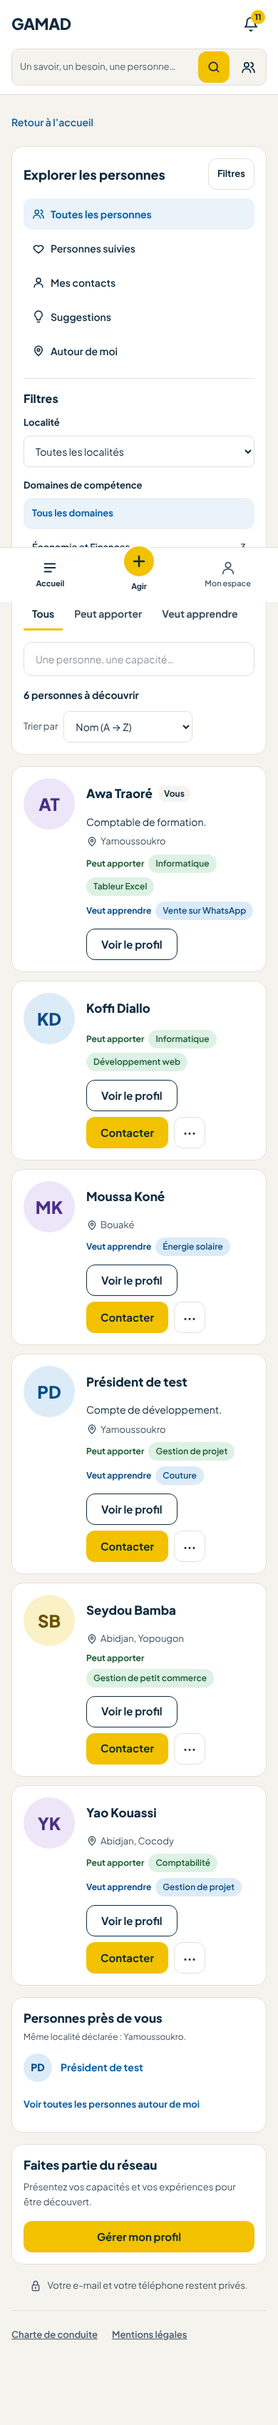
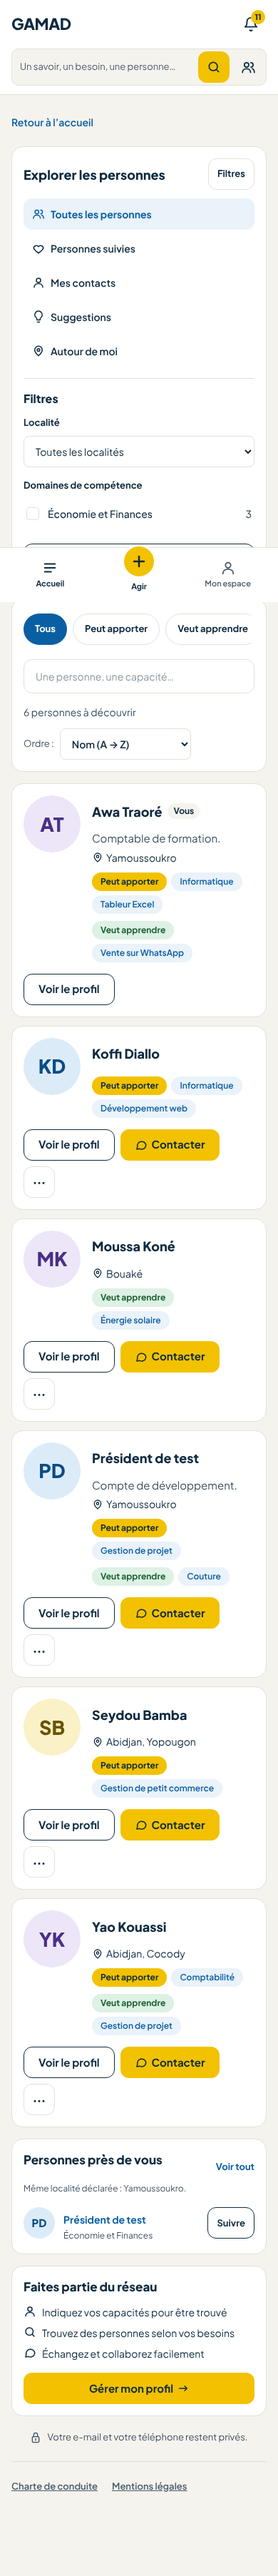
Personnes : rapprochement de la maquette (onglets en pastilles, cartes à actions latérales, filtres à cases, blocs de droite avec Suivre)
Claude-Session: https://claude.ai/code/session_01HadbpwLj9VLL4L1zDggZLr

diff --git a/resources/views/livewire/carrefour-personnes.blade.php b/resources/views/livewire/carrefour-personnes.blade.php
@@ -9,8 +9,8 @@
     $citiesWithCount = $cities->filter(fn ($c) => ($cityCounts[$c->id] ?? 0) > 0 || $c->id === $cityId);
 @endphp
 <div class="person-directory min-w-0" x-data="{ filters: false }">
-    @if (\App\Support\Experience::initial())<a href="{{ auth()->check() ? route('fil') : route('home') }}" class="mb-3 inline-flex min-h-11 items-center gap-2 text-[14px] font-semibold">Retour à l’accueil</a>@endif
-    <div class="grid min-w-0 items-start gap-4 lg:grid-cols-[220px_minmax(0,1fr)] xl:grid-cols-[230px_minmax(0,1fr)_260px]">
+    @if (\App\Support\Experience::initial())<a href="{{ auth()->check() ? route('fil') : route('home') }}" class="mb-3 inline-flex min-h-11 items-center gap-2 text-[14px] font-semibold lg:hidden">Retour à l’accueil</a>@endif
+    <div class="grid min-w-0 items-start gap-4 lg:grid-cols-[240px_minmax(0,1fr)] xl:grid-cols-[250px_minmax(0,1fr)_300px]">
         <aside aria-label="Navigation et filtres des personnes" class="min-w-0 rounded-card border border-line bg-card p-4">
             <div class="flex items-center justify-between gap-2">
                 <h2 class="text-[18px] font-extrabold">Explorer les personnes</h2>
@@ -29,24 +29,27 @@
                     <option value="">Toutes les localités</option>
                     @foreach ($citiesWithCount as $ville)<option value="{{ $ville->id }}">{{ $ville->label() }} ({{ $cityCounts[$ville->id] ?? 0 }})</option>@endforeach
                 </select>
-                <fieldset class="mt-4">
+                <fieldset class="mt-4" x-data="{ more: {{ $domainId !== '' ? 'true' : 'false' }} }">
                     <legend class="mb-2 text-[13px] font-bold">Domaines de compétence</legend>
-                    <div class="space-y-1">
-                        <button type="button" wire:click="$set('domain', '')" aria-pressed="{{ $domainId === '' ? 'true' : 'false' }}" class="flex min-h-11 w-full items-center justify-between gap-2 rounded-button px-3 text-left text-[13px] {{ $domainId === '' ? 'bg-soft-blue font-bold text-link' : 'font-semibold' }}">Tous les domaines</button>
+                    <div class="space-y-0.5">
                         @foreach ($domainsWithCount as $domaine)
-                            <button type="button" wire:click="$set('domain', '{{ $domaine->id }}')" aria-pressed="{{ $domainId === $domaine->id ? 'true' : 'false' }}" class="flex min-h-11 w-full items-center justify-between gap-2 rounded-button px-3 text-left text-[13px] {{ $domainId === $domaine->id ? 'bg-soft-blue font-bold text-link' : 'font-semibold' }}"><span class="min-w-0 break-words">{{ $domaine->name }}</span><span class="shrink-0 text-muted">{{ $domainCounts[$domaine->id] ?? 0 }}</span></button>
+                            <button type="button" @if ($loop->index >= 5) x-show="more" x-cloak @endif wire:click="$set('domain', '{{ $domainId === $domaine->id ? '' : $domaine->id }}')" aria-pressed="{{ $domainId === $domaine->id ? 'true' : 'false' }}" class="flex min-h-11 w-full items-center gap-3 rounded-button px-1 text-left text-[14px] font-medium">
+                                <span class="flex h-[18px] w-[18px] shrink-0 items-center justify-center rounded-[4px] border {{ $domainId === $domaine->id ? 'border-ink bg-ink text-white' : 'border-line' }}">@if ($domainId === $domaine->id)<x-icon name="check" :size="12"/>@endif</span>
+                                <span class="min-w-0 flex-1 break-words">{{ $domaine->name }}</span><span class="shrink-0 text-muted">{{ $domainCounts[$domaine->id] ?? 0 }}</span>
+                            </button>
                         @endforeach
                     </div>
+                    @if ($domainsWithCount->count() > 5)<button type="button" x-on:click="more = ! more" class="mt-1 inline-flex min-h-11 items-center text-[14px] font-bold text-link"><span x-text="more ? 'Voir moins' : 'Voir plus'">Voir plus</span></button>@endif
                 </fieldset>
-                @if ($hasFilters)<button type="button" wire:click="clearFilters" class="mt-4 min-h-11 w-full rounded-button border border-line px-3 text-[13px] font-bold">Réinitialiser</button>@endif
+                <button type="button" wire:click="clearFilters" class="mt-5 inline-flex min-h-11 w-full items-center justify-center gap-2 rounded-button border border-ink px-3 text-[14px] font-bold">Réinitialiser les filtres</button>
             </div>
         </aside>
         <main class="min-w-0 space-y-4">
             <h1 class="sr-only">Personnes — Trouvez qui peut vous aider</h1>
             <div class="rounded-card border border-line bg-card p-4">
-                <div role="tablist" aria-label="Type de capacité" class="-mx-1 flex gap-1 overflow-x-auto px-1">
+                <div role="tablist" aria-label="Type de capacité" class="-mx-1 flex max-w-full gap-2 overflow-x-auto px-1 py-1">
                     @foreach ($labels as $slug => $label)
-                        <button type="button" role="tab" aria-selected="{{ $mode === $slug ? 'true' : 'false' }}" wire:click="setMode('{{ $slug }}')" class="min-h-11 shrink-0 border-b-[3px] px-3 text-[14px] font-bold {{ $mode === $slug ? 'border-accent text-ink' : 'border-transparent text-muted' }}">{{ $label }}</button>
+                        <button type="button" role="tab" aria-selected="{{ $mode === $slug ? 'true' : 'false' }}" wire:click="setMode('{{ $slug }}')" class="min-h-11 shrink-0 rounded-full px-4 text-[13px] font-bold {{ $mode === $slug ? 'bg-link text-white' : 'border border-line bg-card' }}">{{ $label }}</button>
                     @endforeach
                 </div>
                 <div class="mt-4 xl:hidden">
@@ -67,9 +70,9 @@
                     </div>
                 @endif
                 <div class="mt-4 flex flex-wrap items-center justify-between gap-3">
-                    <span role="status" aria-live="polite" class="text-[14px] font-bold">{{ $summary }}</span>
-                    <label class="flex items-center gap-2 text-[13px] text-muted">Trier par
-                        <select wire:model.live="sort" class="zumra-filter !w-auto">
+                    <p role="status" aria-live="polite" class="text-[14px] text-muted">{{ $summary }}</p>
+                    <label class="flex items-center gap-2 text-[13px] text-muted">Ordre :
+                        <select wire:model.live="sort" class="zumra-filter !w-auto font-semibold">
                             @foreach ($sorts as $slug => $label)<option value="{{ $slug }}">{{ $label }}</option>@endforeach
                         </select>
                     </label>
@@ -111,43 +114,44 @@
         <aside aria-label="Découvrir le réseau" class="min-w-0 space-y-4 lg:col-start-2 xl:col-start-3">
             <section class="hidden rounded-card border border-line bg-card p-4 xl:block">
                 <h2 class="text-[17px] font-extrabold">Recherche rapide</h2>
-                <label for="recherche-rapide" class="mt-3 block text-[13px] text-muted">Un nom ou une capacité</label>
-                <input id="recherche-rapide" type="search" wire:model.live.debounce.300ms="query" maxlength="100" autocomplete="off" placeholder="Une personne, une capacité…" class="mt-1 min-h-11 w-full min-w-0 rounded-button border border-line bg-card px-3 text-[14px] outline-none focus:border-link">
+                <form wire:submit="$refresh" class="mt-3 space-y-3">
+                    <label for="recherche-rapide" class="sr-only">Un nom ou une capacité</label>
+                    <div class="flex items-center gap-2 rounded-button border border-line bg-card px-3 focus-within:border-link"><x-icon name="search" :size="18"/><input id="recherche-rapide" type="search" wire:model.live.debounce.300ms="query" maxlength="100" autocomplete="off" placeholder="Nom, compétence…" class="min-h-11 min-w-0 flex-1 border-0 bg-transparent px-0 text-[14px] outline-none focus:ring-0"></div>
+                    <x-button type="submit" variant="accent" class="w-full">Rechercher</x-button>
+                </form>
             </section>
-            @if ($suggestions->isNotEmpty())
-                <section aria-labelledby="suggestions-titre" class="rounded-card border border-line bg-card p-4">
-                    <h2 id="suggestions-titre" class="text-[17px] font-extrabold">Suggestions pour vous</h2>
-                    <p class="mt-1 text-[12px] text-muted">D’après vos capacités et envies d’apprendre, par ordre alphabétique.</p>
+            @foreach ([['suggestions', 'Suggestions pour vous', $suggestions, 'sugg', 'Voir plus de suggestions →', 'suggestions'], ['nearby', 'Personnes près de vous', $nearby, 'proche', 'Voir tout', 'autour']] as [$id, $title, $items, $prefix, $more, $target])
+                @continue($items->isEmpty())
+                <section aria-labelledby="{{ $id }}-titre" class="rounded-card border border-line bg-card p-4">
+                    <div class="flex items-start justify-between gap-2">
+                        <h2 id="{{ $id }}-titre" class="text-[17px] font-extrabold">{{ $title }}</h2>
+                        @if ($id === 'nearby')<button type="button" wire:click="setList('{{ $target }}')" class="inline-flex min-h-11 items-center text-[13px] font-bold text-link">{{ $more }}</button>@endif
+                    </div>
+                    <p class="text-[12px] text-muted">{{ $id === 'nearby' ? 'Même localité déclarée : '.$viewerProfile->city->label().'.' : 'D’après vos capacités et envies d’apprendre, par ordre alphabétique.' }}</p>
                     <ul class="mt-3 space-y-3">
-                        @foreach ($suggestions as $suggested)
-                            <li class="flex min-w-0 items-start gap-3" wire:key="suggestion-{{ $suggested->id }}">
-                                <x-avatar :profile="$suggested" :size="40" />
-                                <div class="min-w-0"><a href="{{ route('personnes.show', $suggested->public_id) }}" class="inline-flex min-h-11 items-center break-words text-[14px] font-bold">{{ $suggested->user->name }}</a><p class="break-words text-[12px] text-muted">{{ $suggested->reason }}</p></div>
+                        @foreach ($items as $item)
+                            @php($isFollowed = in_array($item->user_id, $followedIds, true))
+                            <li class="flex min-w-0 items-center gap-3" wire:key="{{ $prefix }}-{{ $item->id }}">
+                                <x-avatar :profile="$item" :size="44" />
+                                <div class="min-w-0 flex-1">
+                                    <a href="{{ route('personnes.show', $item->public_id) }}" class="inline-flex min-h-11 items-center break-words text-[14px] font-bold">{{ $item->user->name }}</a>
+                                    <p class="-mt-2 break-words text-[12px] text-muted">{{ $id === 'suggestions' ? $item->reason : ($item->headline ?: $item->domains->pluck('name')->take(2)->join(' · ')) }}</p>
+                                </div>
+                                <button type="button" wire:click="follow('{{ $item->id }}', {{ $isFollowed ? 'false' : 'true' }})" class="min-h-11 shrink-0 rounded-button border border-ink px-3 text-[13px] font-bold">{{ $isFollowed ? 'Suivie' : 'Suivre' }}</button>
                             </li>
                         @endforeach
                     </ul>
-                    <button type="button" wire:click="setList('suggestions')" class="mt-2 inline-flex min-h-11 items-center text-[13px] font-bold text-link">Voir toutes les suggestions</button>
+                    @if ($id === 'suggestions')<button type="button" wire:click="setList('suggestions')" class="mt-2 inline-flex min-h-11 items-center text-[14px] font-bold text-link">{{ $more }}</button>@endif
                 </section>
-            @endif
-            @if ($nearby->isNotEmpty())
-                <section aria-labelledby="proches-titre" class="rounded-card border border-line bg-card p-4">
-                    <h2 id="proches-titre" class="text-[17px] font-extrabold">Personnes près de vous</h2>
-                    <p class="mt-1 text-[12px] text-muted">Même localité déclarée : {{ $viewerProfile->city->label() }}.</p>
-                    <ul class="mt-3 space-y-3">
-                        @foreach ($nearby as $close)
-                            <li class="flex min-w-0 items-center gap-3" wire:key="proche-{{ $close->id }}">
-                                <x-avatar :profile="$close" :size="40" />
-                                <a href="{{ route('personnes.show', $close->public_id) }}" class="inline-flex min-h-11 min-w-0 items-center break-words text-[14px] font-bold">{{ $close->user->name }}</a>
-                            </li>
-                        @endforeach
-                    </ul>
-                    <button type="button" wire:click="setList('autour')" class="mt-2 inline-flex min-h-11 items-center text-[13px] font-bold text-link">Voir toutes les personnes autour de moi</button>
-                </section>
-            @endif
+            @endforeach
             <section class="rounded-card border border-line bg-card p-4">
                 <h2 class="text-[17px] font-extrabold">Faites partie du réseau</h2>
-                <p class="mt-2 text-[13px] leading-relaxed text-muted">Présentez vos capacités et vos expériences pour être découvert.</p>
-                <x-button :href="$guest ? route('register') : route('espace.profil')" variant="accent" class="mt-4 w-full">{{ $guest ? 'Créer un compte' : ($viewerProfile?->hasSkills() ? 'Gérer mon profil' : 'Compléter mon profil') }}</x-button>
+                <ul class="mt-3 space-y-2 text-[14px]">
+                    <li class="flex items-start gap-2"><x-icon name="user" :size="18"/> Indiquez vos capacités pour être trouvé</li>
+                    <li class="flex items-start gap-2"><x-icon name="search" :size="18"/> Trouvez des personnes selon vos besoins</li>
+                    <li class="flex items-start gap-2"><x-icon name="chat" :size="18"/> Échangez et collaborez facilement</li>
+                </ul>
+                <x-button :href="$guest ? route('register') : route('espace.profil')" variant="accent" class="mt-4 w-full">{{ $guest ? 'Créer un compte' : ($viewerProfile?->hasSkills() ? 'Gérer mon profil' : 'Compléter mon profil') }} <x-icon name="arrow-right" :size="16" class="ml-1.5"/></x-button>
             </section>
         </aside>
     </div>

diff --git a/resources/views/components/person-discovery-card.blade.php b/resources/views/components/person-discovery-card.blade.php
@@ -4,42 +4,44 @@
     $presentation = $profile->headline ?: \Illuminate\Support\Str::limit((string) $profile->bio, 120);
     $contactUrl = $conversation ? route('conversations.show', $conversation) : route('personnes.show', $profile->public_id).'#contact';
 @endphp
-<article {{ $attributes->class(['person-discovery-card min-w-0 rounded-card border border-line bg-card p-4']) }}>
-    <div class="flex min-w-0 gap-4">
-        <a href="{{ route('personnes.show', $profile->public_id) }}" class="shrink-0" aria-label="Voir le profil de {{ $profile->user->name }}"><x-avatar :profile="$profile" :size="72" /></a>
-        <div class="min-w-0 flex-1 space-y-2">
-            <div class="flex min-w-0 flex-wrap items-center gap-x-2 gap-y-1">
-                <a href="{{ route('personnes.show', $profile->public_id) }}" class="person-name break-words text-[17px] font-extrabold">{{ $profile->user->name }}</a>
-                @if ($self)<span class="rounded-chip bg-ground px-2 py-0.5 text-[12px] font-bold">Vous</span>@endif
-                @if ($followed)<span class="rounded-chip bg-soft-blue px-2 py-0.5 text-[12px] font-bold text-link">Suivie</span>@endif
-                @if ($contact)<span class="rounded-chip bg-type-knowledge-bg px-2 py-0.5 text-[12px] font-bold text-type-knowledge-fg">Contact</span>@endif
-            </div>
-            @if ($presentation !== '')<p class="break-words text-[14px] leading-snug">{{ $presentation }}</p>@endif
-            @if ($profile->city)<p class="flex items-center gap-1 text-[13px] text-muted"><x-icon name="pin" :size="16" /> {{ $profile->city->label() }}</p>@endif
-            @foreach ([['skills' => $profile->offeredSkills, 'label' => 'Peut apporter', 'kind' => 'offered'], ['skills' => $profile->wantedSkills, 'label' => 'Veut apprendre', 'kind' => 'wanted']] as $group)
-                @if ($group['skills']->isNotEmpty())
-                    <div class="flex min-w-0 flex-wrap items-center gap-1.5">
-                        <span class="text-[12px] font-bold {{ $group['kind'] === 'offered' ? 'text-type-knowledge-fg' : 'text-type-learning-fg' }}">{{ $group['label'] }}</span>
-                        @foreach ($group['skills']->take(3) as $skill)
-                            <span class="max-w-full rounded-chip px-2.5 py-1 text-[12px] font-semibold [overflow-wrap:anywhere] {{ $group['kind'] === 'offered' ? 'bg-type-knowledge-bg text-type-knowledge-fg' : 'bg-type-learning-bg text-type-learning-fg' }}">{{ $skill->name }}</span>
-                        @endforeach
-                        @if ($group['skills']->count() > 3)<span class="text-[12px] font-semibold text-muted">+{{ $group['skills']->count() - 3 }}</span>@endif
-                    </div>
-                @endif
-            @endforeach
-            <div class="flex flex-wrap items-center gap-2 pt-1">
-                <x-button :href="route('personnes.show', $profile->public_id)" variant="secondary">Voir le profil</x-button>
-                @unless ($self)<x-button :href="$contactUrl" variant="accent">Contacter</x-button>@endunless
-                @if ($canAct && ! $self)
-                    <div x-data="{ open: false }" class="relative" x-on:click.outside="open = false" x-on:keydown.escape.window="open = false">
-                        <button type="button" x-on:click="open = ! open" x-bind:aria-expanded="open" aria-haspopup="menu" aria-label="Autres actions pour {{ $profile->user->name }}" class="inline-flex min-h-11 min-w-11 items-center justify-center rounded-button border border-line text-[18px] font-extrabold">⋯</button>
-                        <div x-show="open" x-cloak role="menu" class="absolute right-0 z-20 mt-1 w-56 rounded-card border border-line bg-card p-1 shadow-lg">
-                            <button type="button" role="menuitem" wire:click="follow('{{ $profile->id }}', {{ $followed ? 'false' : 'true' }})" x-on:click="open = false" class="flex min-h-11 w-full items-center px-3 text-left text-[14px] font-semibold">{{ $followed ? 'Ne plus suivre' : 'Suivre cette personne' }}</button>
-                            <a role="menuitem" href="{{ route('personnes.signaler', $profile->public_id) }}" class="flex min-h-11 items-center px-3 text-[14px] font-semibold">Signaler ce profil</a>
+<article {{ $attributes->class(['person-discovery-card relative min-w-0 rounded-card border border-line bg-card p-4']) }}>
+    <div class="flex min-w-0 flex-col gap-4 sm:flex-row">
+        <div class="flex min-w-0 flex-1 gap-4">
+            <a href="{{ route('personnes.show', $profile->public_id) }}" class="shrink-0" aria-label="Voir le profil de {{ $profile->user->name }}"><x-avatar :profile="$profile" :size="80" /></a>
+            <div class="min-w-0 flex-1 space-y-1.5">
+                <div class="flex min-w-0 flex-wrap items-center gap-x-2 gap-y-1">
+                    <a href="{{ route('personnes.show', $profile->public_id) }}" class="person-name break-words text-[18px] font-extrabold">{{ $profile->user->name }}</a>
+                    @if ($self)<span class="rounded-chip bg-ground px-2 py-0.5 text-[12px] font-bold">Vous</span>@endif
+                    @if ($followed)<span class="rounded-chip bg-soft-blue px-2 py-0.5 text-[12px] font-bold text-link">Suivie</span>@endif
+                    @if ($contact)<span class="rounded-chip bg-type-knowledge-bg px-2 py-0.5 text-[12px] font-bold text-type-knowledge-fg">Contact</span>@endif
+                </div>
+                @if ($presentation !== '')<p class="break-words text-[15px] leading-snug text-muted">{{ $presentation }}</p>@endif
+                @if ($profile->city)<p class="flex items-center gap-1 text-[14px]"><x-icon name="pin" :size="16" /> {{ $profile->city->label() }}</p>@endif
+                @foreach ([['skills' => $profile->offeredSkills, 'label' => 'Peut apporter', 'kind' => 'offered'], ['skills' => $profile->wantedSkills, 'label' => 'Veut apprendre', 'kind' => 'wanted']] as $group)
+                    @if ($group['skills']->isNotEmpty())
+                        <div class="flex min-w-0 flex-wrap items-center gap-1.5 pt-1">
+                            <span class="rounded-chip px-3 py-1 text-[12px] font-bold {{ $group['kind'] === 'offered' ? 'bg-accent text-ink' : 'bg-type-knowledge-bg text-type-knowledge-fg' }}">{{ $group['label'] }}</span>
+                            @foreach ($group['skills']->take(3) as $skill)
+                                <span class="max-w-full rounded-chip bg-soft-blue px-3 py-1 text-[12px] font-semibold text-link [overflow-wrap:anywhere]">{{ $skill->name }}</span>
+                            @endforeach
+                            @if ($group['skills']->count() > 3)<span class="rounded-chip bg-ground px-2.5 py-1 text-[12px] font-semibold text-muted">+{{ $group['skills']->count() - 3 }}</span>@endif
                         </div>
-                    </div>
-                @endif
+                    @endif
+                @endforeach
             </div>
+        </div>
+        <div class="flex shrink-0 flex-wrap items-start gap-2 sm:mt-8 sm:w-[150px] sm:flex-col sm:items-stretch">
+            <x-button :href="route('personnes.show', $profile->public_id)" variant="secondary">Voir le profil</x-button>
+            @unless ($self)<x-button :href="$contactUrl" variant="accent"><x-icon name="chat" :size="18" class="mr-1.5" />Contacter</x-button>@endunless
+            @if ($canAct && ! $self)
+                <div x-data="{ open: false }" class="relative sm:absolute sm:right-2 sm:top-2" x-on:click.outside="open = false" x-on:keydown.escape.window="open = false">
+                    <button type="button" x-on:click="open = ! open" x-bind:aria-expanded="open" aria-haspopup="menu" aria-label="Autres actions pour {{ $profile->user->name }}" class="inline-flex min-h-11 min-w-11 items-center justify-center rounded-button border border-line text-[18px] font-extrabold sm:border-0">⋯</button>
+                    <div x-show="open" x-cloak role="menu" class="absolute right-0 z-20 mt-1 w-56 rounded-card border border-line bg-card p-1 shadow-lg">
+                        <button type="button" role="menuitem" wire:click="follow('{{ $profile->id }}', {{ $followed ? 'false' : 'true' }})" x-on:click="open = false" class="flex min-h-11 w-full items-center px-3 text-left text-[14px] font-semibold">{{ $followed ? 'Ne plus suivre' : 'Suivre cette personne' }}</button>
+                        <a role="menuitem" href="{{ route('personnes.signaler', $profile->public_id) }}" class="flex min-h-11 items-center px-3 text-[14px] font-semibold">Signaler ce profil</a>
+                    </div>
+                </div>
+            @endif
         </div>
     </div>
 </article>

diff --git a/app/Livewire/CarrefourPersonnes.php b/app/Livewire/CarrefourPersonnes.php
@@ -264,7 +264,7 @@ class CarrefourPersonnes extends Component
         $offered = $mine->offeredSkills->pluck('name', 'id');
 
         return $query->orderBy(User::query()->select('name_search')->whereColumn('users.id', 'profiles.user_id'))
-            ->with(['user', 'offeredSkills', 'wantedSkills'])->limit(3)->get()
+            ->with(['user', 'city', 'domains', 'offeredSkills', 'wantedSkills'])->limit(3)->get()
             ->map(function (Profile $profile) use ($wanted, $offered) {
                 $brings = $profile->offeredSkills->whereIn('id', $wanted->keys())->pluck('name')->first();
                 $learns = $profile->wantedSkills->whereIn('id', $offered->keys())->pluck('name')->first();
@@ -280,6 +280,6 @@ class CarrefourPersonnes extends Component
         return Profile::query()->visibleTo($viewer)->where('profiles.user_id', '<>', $viewer->id)->where('profiles.city_id', $mine->city_id)
             ->where(fn (Builder $q) => $q->whereHas('offeredSkills')->orWhereHas('wantedSkills'))
             ->orderBy(User::query()->select('name_search')->whereColumn('users.id', 'profiles.user_id'))
-            ->with(['user', 'city', 'offeredSkills'])->limit(3)->get();
+            ->with(['user', 'city', 'domains'])->limit(3)->get();
     }
 }

diff --git a/tests/Feature/Personnes/CarrefourTest.php b/tests/Feature/Personnes/CarrefourTest.php
@@ -212,7 +212,7 @@ it('liste les villes et domaines actifs dans les filtres, pas les désactivés',
 
     visiteur()->assertSeeText('Toutes les localités')->assertSeeText('Abidjan, Cocody')->assertSeeText('Bouaké')
         ->assertDontSee('<option value="'.$korhogo->id.'">', false)
-        ->assertSeeText('Tous les domaines')
+        ->assertSeeText('Domaines de compétence')
         ->assertDontSee("\$set('domain', '".$securite->id."')", false);
 });
 

diff --git a/tests/Feature/MiseEnPageTest.php b/tests/Feature/MiseEnPageTest.php
@@ -73,7 +73,7 @@ it('range les cartes des carrefours en colonnes sur ordinateur, et en une seule 
     }
 
     expect($this->actingAs($personne)->get(route('personnes.index'))->assertOk()->getContent())
-        ->toContain('xl:grid-cols-[230px_minmax(0,1fr)_260px]')
+        ->toContain('xl:grid-cols-[250px_minmax(0,1fr)_300px]')
         ->toContain('person-discovery-card');
 });
 
